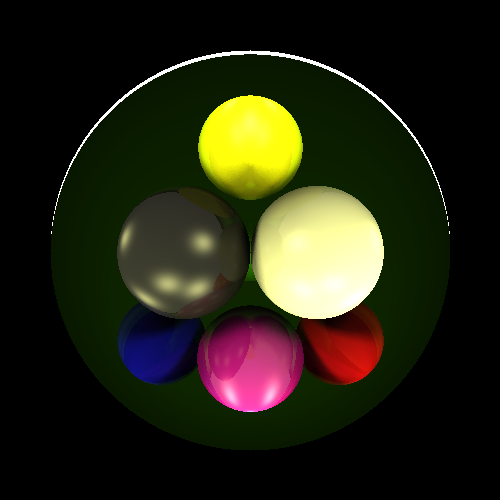
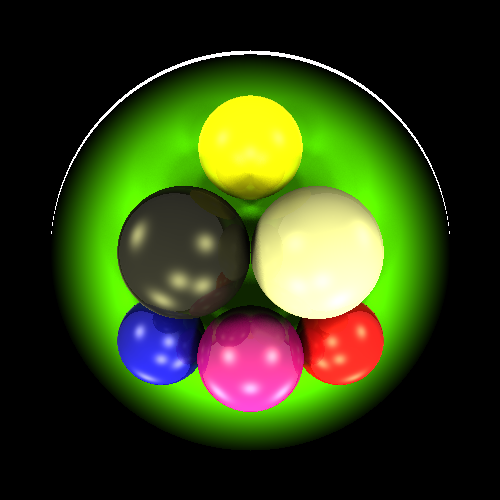
tryng to fix shoft shadows..

diff --git a/src/RayTracer.java b/src/RayTracer.java
@@ -222,6 +222,7 @@ public class RayTracer {
 						ray_direction.normalize();
 						Ray new_ray_for_Xip = new Ray(camera.position,ray_direction);
 						intersection = Intersection.getMinIntersection(new_ray_for_Xip, surfaces);
+						ray = new_ray_for_Xip;
 					}
 				}
 
